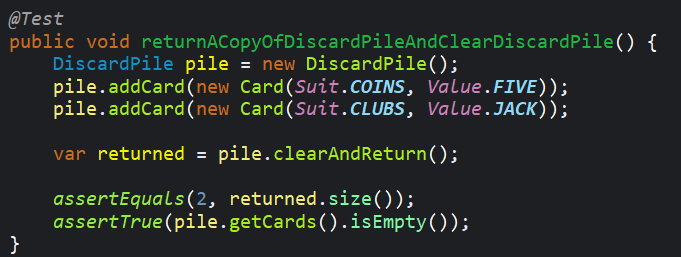
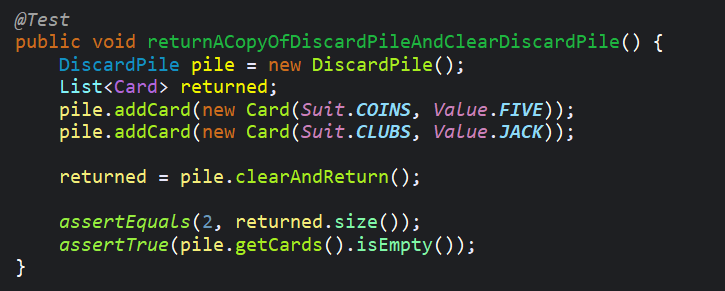
Actualización de assets
Corrección de un test y una de las fotos de assets

diff --git a/test/chinchon/test/WhiteBoxTests.java b/test/chinchon/test/WhiteBoxTests.java
@@ -135,10 +135,11 @@ public class WhiteBoxTests {
 	@Test
     public void returnACopyOfDiscardPileAndClearDiscardPile() {
         DiscardPile pile = new DiscardPile();
+        List<Card> returned;
         pile.addCard(new Card(Suit.COINS, Value.FIVE));
         pile.addCard(new Card(Suit.CLUBS, Value.JACK));
 
-        var returned = pile.clearAndReturn();
+        returned = pile.clearAndReturn();
 
         assertEquals(2, returned.size());
         assertTrue(pile.getCards().isEmpty());